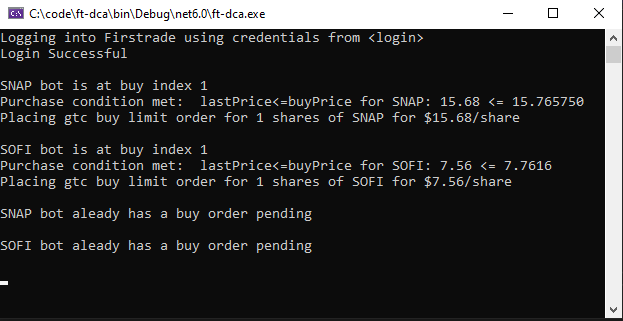
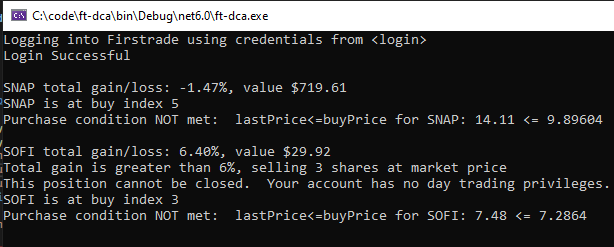
implemented percent take profit

Changed region(s): [[0.0, 0.0, 1.0, 0.9919], [0.3713, 0.8502, 0.7427, 0.9069]]

diff --git a/Firstrade.cs b/Firstrade.cs
@@ -78,6 +78,9 @@ namespace ft_dca
                 if (limitPrice != "") await Page.FillAsync("input[name='limitPrice']", limitPrice);
                 await Task.Delay(2000);
                 await Page.ClickAsync("a[name='submitOrder']");
+
+                var err = await Page.QuerySelectorAllAsync("div.inbox");
+                if (err.Count > 0) Console.WriteLine(await err[0].TextContentAsync());
             }
             catch (Exception ex)
             {
@@ -227,9 +230,10 @@ namespace ft_dca
 
         public async Task RunBots(decimal limitBuyThreshold = .99m)
         {
-            await CheckSession();
+            if (cfg == null) return;
 
-            var bots = cfg?.GetElementsByTagName("bot");
+            await CheckSession();
+            var bots = cfg.GetElementsByTagName("bot");
             if (bots == null) return;
             foreach(XmlElement bot in bots)
             {
@@ -238,8 +242,28 @@ namespace ft_dca
                 await UpdateDictionaries();
 
                 if (gainLookup.ContainsKey(symbol))
+                {
                     Console.WriteLine($"{symbol} total gain/loss: {gainLookup[symbol]}%, value ${valueLookup[symbol]}");
-                
+
+                    if (bot.HasAttribute("percentTakeProfit"))
+                    {
+                        decimal percentTakeProfit = Convert.ToDecimal(bot.GetAttribute("percentTakeProfit"));
+
+                        if (gainLookup[symbol]>= percentTakeProfit)
+                        {
+                            int shares = quantityLookup[symbol];
+                            if (shares > 1)
+                            {
+                                Console.WriteLine($"Total gain is greater than {percentTakeProfit}%, selling {shares - 1} shares at market price");
+                                var lastPrice = lastPriceLookup[symbol];
+                                if (lastPrice > 1) 
+                                    await Order("S", symbol, shares - 1, "Limit", lastPrice.ToString("#.##"), "Day+EXT");
+                                else 
+                                    await Order("S", symbol, shares - 1, "Limit", lastPrice.ToString("#.####"), "Day+EXT");
+                            }
+                        }
+                    }
+                }
 
                 //if there is not already a buy limit order for this symbol
                 if (!await HasBuyLimitOrder(symbol))
@@ -273,9 +297,9 @@ namespace ft_dca
                                 Console.WriteLine($"Placing gtc buy limit order for {-quantity} shares of {symbol} for ${limitPrice}/share");
 
                                 if (limitPrice < 1)
-                                    await Order("B", symbol, -quantity, "Limit", limitPrice.ToString("#.####"), "GT90");
+                                    await Order("B", symbol, -quantity, "Limit", limitPrice.ToString("#.####"), "Day+EXT");
                                 else
-                                    await Order("B", symbol, -quantity, "Limit", limitPrice.ToString("#.##"), "GT90");
+                                    await Order("B", symbol, -quantity, "Limit", limitPrice.ToString("#.##"), "Day+EXT");
                             }
                             else Console.WriteLine($"Purchase condition NOT met:  lastPrice<=buyPrice for {symbol}: {lastPrice} <= {buyPrice}");
 
